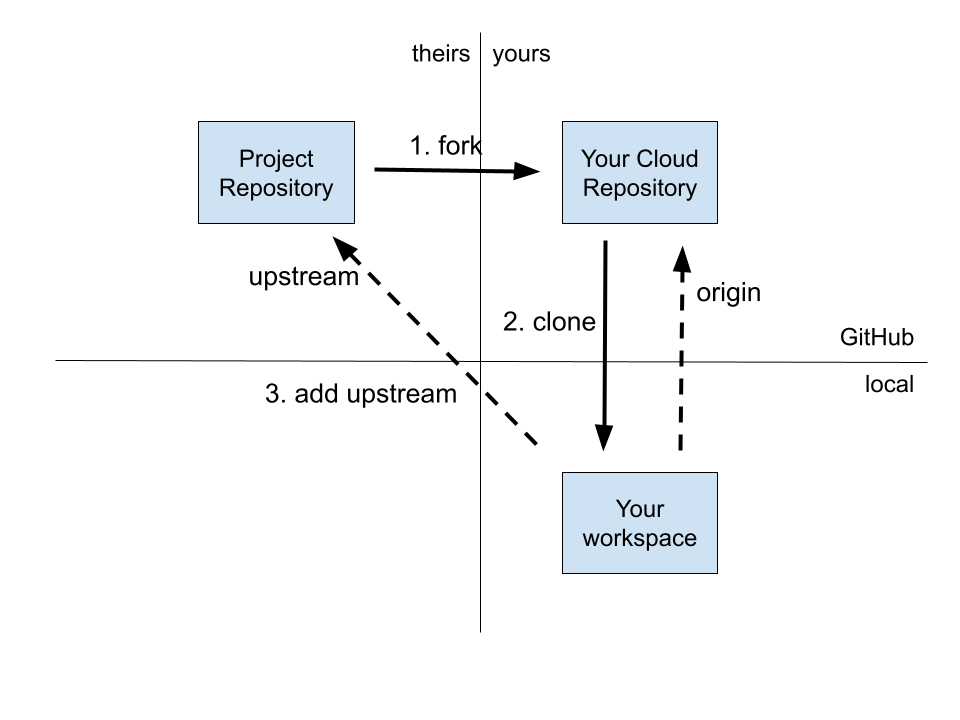
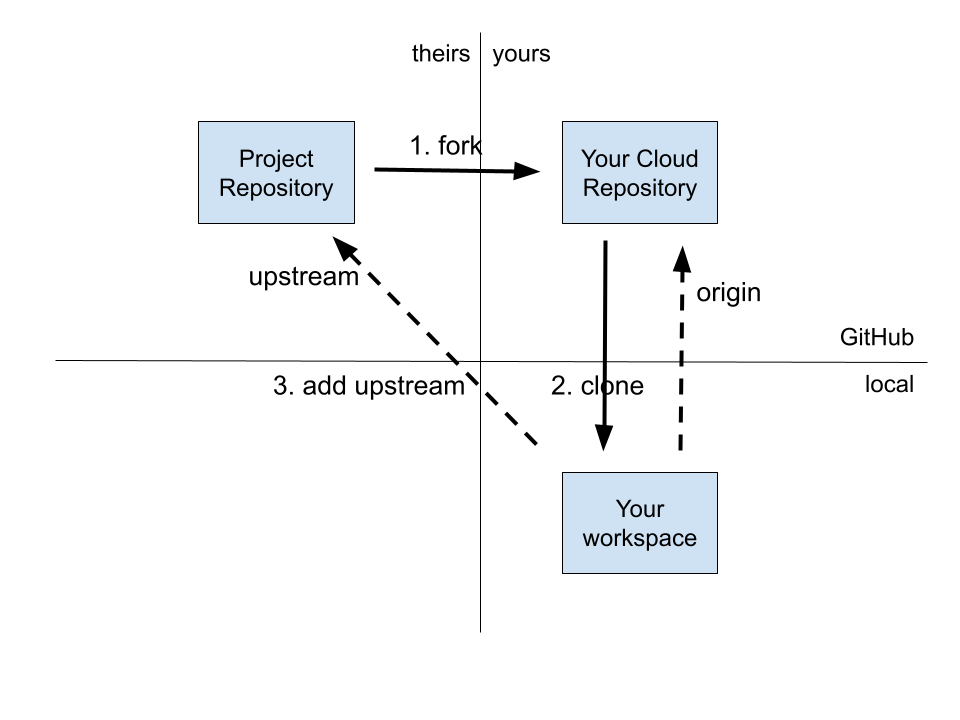
fix: Fixed position of 'clone' command in the figure to show that it happens in the local workspace.

Changed region(s): [[0.2812, 0.5194, 0.5, 0.5806], [0.5625, 0.5194, 0.6875, 0.55], [0.5312, 0.4278, 0.625, 0.4583]]

diff --git a/part_02-repository-setup.md b/part_02-repository-setup.md
@@ -4,14 +4,14 @@ Most open source projects allow you to contribute to the project without being a
 
 When you want to collaborate on an open source project for which you do not have commit privileges, you need to set up your own copy of the repository. You do this in two steps:
 
-1. [fork](https://docs.github.com/en/github/getting-started-with-github/fork-a-repo) the repository from the _project_ GitHub account to _your_ GitHub account.
-2. [clone](https://git-scm.com/docs/git-clone) your repository to your local machine.
+1. [Fork](https://docs.github.com/en/github/getting-started-with-github/fork-a-repo) the repository from the _project_ GitHub account to _your_ GitHub account.
+2. [Clone](https://git-scm.com/docs/git-clone) your repository to your local machine.
 
 ## Fork
 
 Forking a repository makes a copy. This allows you to experiment with changes without affecting the original project.
 
-Forking happens in the cloud. You do it in a browser. Each of the Git repository cloud hosting services have their own way to do this:
+Forking happens in the cloud. You do it from a browser. Each of the Git repository cloud hosting services have their own way to do this:
 
 * GitHub `fork` [documentation](https://docs.github.com/en/github/getting-started-with-github/fork-a-repo)
 * GitLab `fork` [documentation](https://docs.gitlab.com/ee/user/project/working_with_projects.html#fork-a-project)
@@ -26,9 +26,9 @@ To get the repository to your local machine, you `clone` your cloud repository. 
 ```bash
 # Fork is an operation that you already performed in a browser.
 # Then you clone your copy of the repository
-git clone git@github.com:your-name/your-project.git
+git clone git@github.com:your-github-name/some-project.git
 # Add a reference to the original source repository.
-git add upstream repository.git
+git add upstream git@github.com:project-github-name/some-project.git
 ```
 
 The original project repository is referenced as `upstream`. Your fork of that repository is referenced as `origin`.
